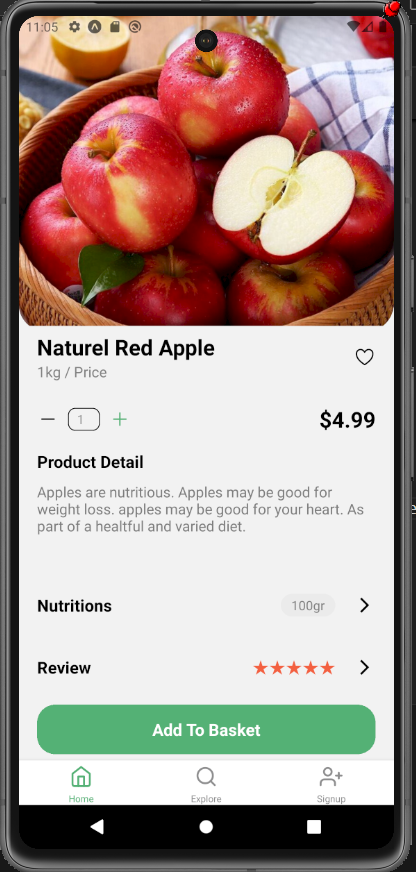
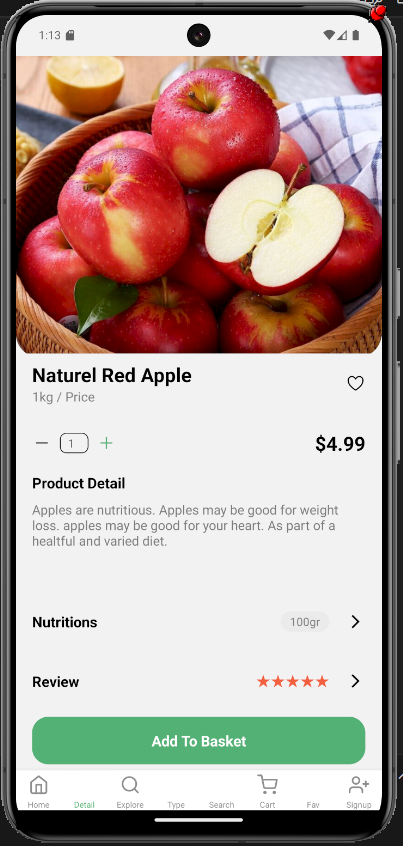
Update Favorites Screen

diff --git a/E_Commercial_Mobile_FrontEnd/components/FavoritesScreen.js b/E_Commercial_Mobile_FrontEnd/components/FavoritesScreen.js
@@ -1,0 +1,60 @@
+import { StyleSheet, Text, View, TouchableOpacity, Image, FlatList } from 'react-native'
+import { SafeAreaView } from 'react-native-safe-area-context'
+import React from 'react'
+
+import { Ionicons } from '@expo/vector-icons'
+import favouriteData from '../dataTest/favouriteData'
+
+const FavoritesScreen = () => {
+    return (
+        <SafeAreaView style={{ flex: 1 }}>
+            {/* View - 1 */}
+            <View style={{ flex: 1, justifyContent: 'center', alignItems: 'center', borderBottomWidth: 0.5 }}>
+                <Text style={{ fontSize: 20, fontWeight: 'bold' }}>Favorurite</Text>
+            </View>
+
+            {/* View - 2 */}
+            <View style={{ flex: 9 }}>
+                {/* FlatList */}
+                <FlatList
+                    data={favouriteData}
+                    renderItem={renderItem}
+                    keyExtractor={(item) => item.name}
+                />
+            </View>
+
+            {/* View -  3*/}
+            <View style={{ flex: 2, borderTopWidth: 1, justifyContent: 'center', alignItems: 'center' }}>
+                <TouchableOpacity style={{ backgroundColor: '#53B175', width: '90%', height: '55%', borderRadius: 30, justifyContent: 'center', alignItems: 'center' }}>
+                    <Text style={{ color: 'white', fontSize: 20 }}>Thêm Vào Giỏ Hàng</Text>
+                </TouchableOpacity>
+            </View>
+        </SafeAreaView>
+    )
+}
+
+export default FavoritesScreen
+
+const renderItem = ({ item }) => (
+    < View style={{ width: '100%', height: 140, flexDirection: 'row', borderBottomWidth: 0.5, marginBottom: 10 }}>
+
+        <View style={{ width: '30%', height: '100%', justifyContent: 'center', alignItems: 'center' }}>
+            <Image source={{ uri: 'https://product.hstatic.net/200000863047/product/sku1_d11b1acc65b94413833c059372c06f60.png' }} style={{ width: '95%', height: '95%', borderRadius: 10 }} resizeMode='contain' e />
+        </View>
+
+        <View style={{ width: '40%', height: '100%', paddingLeft: 20, justifyContent: 'center' }}>
+            <Text style={{ fontWeight: 'bold', fontSize: 20 }}>Sprite Can</Text>
+            <Text style={{ fontSize: 16, color: 'grey' }}>2L / Price</Text>
+        </View>
+
+        <View style={{ width: '30%', height: '100%', justifyContent: 'center', alignItems: 'center' }}>
+            <View style={{ flexDirection: 'row', justifyContent: 'center', alignItems: 'center' }}>
+                <Text style={{ fontWeight: 'bold', fontSize: 20, paddingRight: 10 }}>50.000 đ</Text>
+                <TouchableOpacity>
+                    <Ionicons name='chevron-forward-outline' size={30} style={{ fontWeight: 'bold' }} />
+                </TouchableOpacity>
+            </View>
+        </View>
+    </View >
+)
+const styles = StyleSheet.create({})

diff --git a/E_Commercial_Mobile_FrontEnd/dataTest/favouriteData.js b/E_Commercial_Mobile_FrontEnd/dataTest/favouriteData.js
@@ -1,0 +1,35 @@
+const favouriteData = [
+    {
+        name: "Sprite Can",
+        volume: "325ml",
+        price: 1.50,
+        imageUrl: "https://example.com/sprite-can.jpg" // Replace with actual image URL
+    },
+    {
+        name: "Diet Coke",
+        volume: "355ml",
+        price: 1.99,
+        imageUrl: "https://example.com/diet-coke.jpg" // Replace with actual image URL
+    },
+    {
+        name: "Apple & Grape Juice",
+        volume: "2L",
+        price: 15.50,
+        imageUrl: "https://example.com/apple-grape-juice.jpg" // Replace with actual image URL
+    },
+    {
+        name: "Coca Cola Can",
+        volume: "325ml",
+        price: 4.99,
+        imageUrl: "https://example.com/coca-cola-can.jpg" // Replace with actual image URL
+    },
+    {
+        name: "Pepsi Can",
+        volume: "330ml",
+        price: 4.99,
+        imageUrl: "https://example.com/pepsi-can.jpg" // Replace with actual image URL
+    },
+
+];
+
+export default favouriteData;

diff --git a/E_Commercial_Mobile_FrontEnd/components/HomeDashboardNew.js b/E_Commercial_Mobile_FrontEnd/components/HomeDashboardNew.js
@@ -13,6 +13,7 @@ import SearchScreen from './SearchScreen';
 import Signin from './Signin';
 
 import Icon from 'react-native-vector-icons/Feather';
+import FavoritesScreen from './FavoritesScreen';
 
 const HomeDashboardNew = () => {
 
@@ -60,9 +61,8 @@ const HomeDashboardNew = () => {
       <Tab.Screen name='Explore' component={Explore} />
       <Tab.Screen name='Type' component={ProductType} />
       <Tab.Screen name='Search' component={SearchScreen} />
-
-
       <Tab.Screen name='Cart' component={CartScreen} />
+      <Tab.Screen name='Fav' component={FavoritesScreen} />
       <Tab.Screen name='Signup' component={SignUp} />
     </Tab.Navigator>
   )

diff --git a/E_Commercial_Mobile_FrontEnd/README.md b/E_Commercial_Mobile_FrontEnd/README.md
@@ -1,18 +1,20 @@
 # PET SHOP
 ## ReactNative
 ### 1) Home Screen
-![img_2.png](./screenDemo/HomeScreen1.png)
-![img_2.png](./screenDemo/HomeScreen2.png)
-### 2) Cart Screen
-![img_2.png](./screenDemo/CartScreen.png)
-### 3) Login Screen - Sign Up Screen
-![img_2.png](./screenDemo/LoginScreen.png)
-![img_2.png](./screenDemo/SignUpScreen.png)
+![alt text](screenDemo/HomeScreen.png)
+### 2) Product Details Screen
+![alt text](screenDemo/ProductDetailsScreen.png)
 ### 3) Explore Screen (Find Product Screen)
 ![alt text](<screenDemo/ExploreScreen(Find product).png>)
-### 4) Product Details Screen
-![alt text](screenDemo/ProductDetailsScreen.png)
 ### 4) Product Type (Beverages)
 ![alt text](screenDemo/ProductType.png)
 ### 5) Search Screen
 ![alt text](screenDemo/SearchScreen.png)
+### 6) Cart Screen
+![alt text](screenDemo/CartScreen.png)
+### 7) Favorites Screen
+![alt text](screenDemo/FavoritesScreen.png)
+
+### 7) Login Screen - Sign Up Screen
+![img_2.png](./screenDemo/LoginScreen.png)
+![img_2.png](./screenDemo/SignUpScreen.png)
